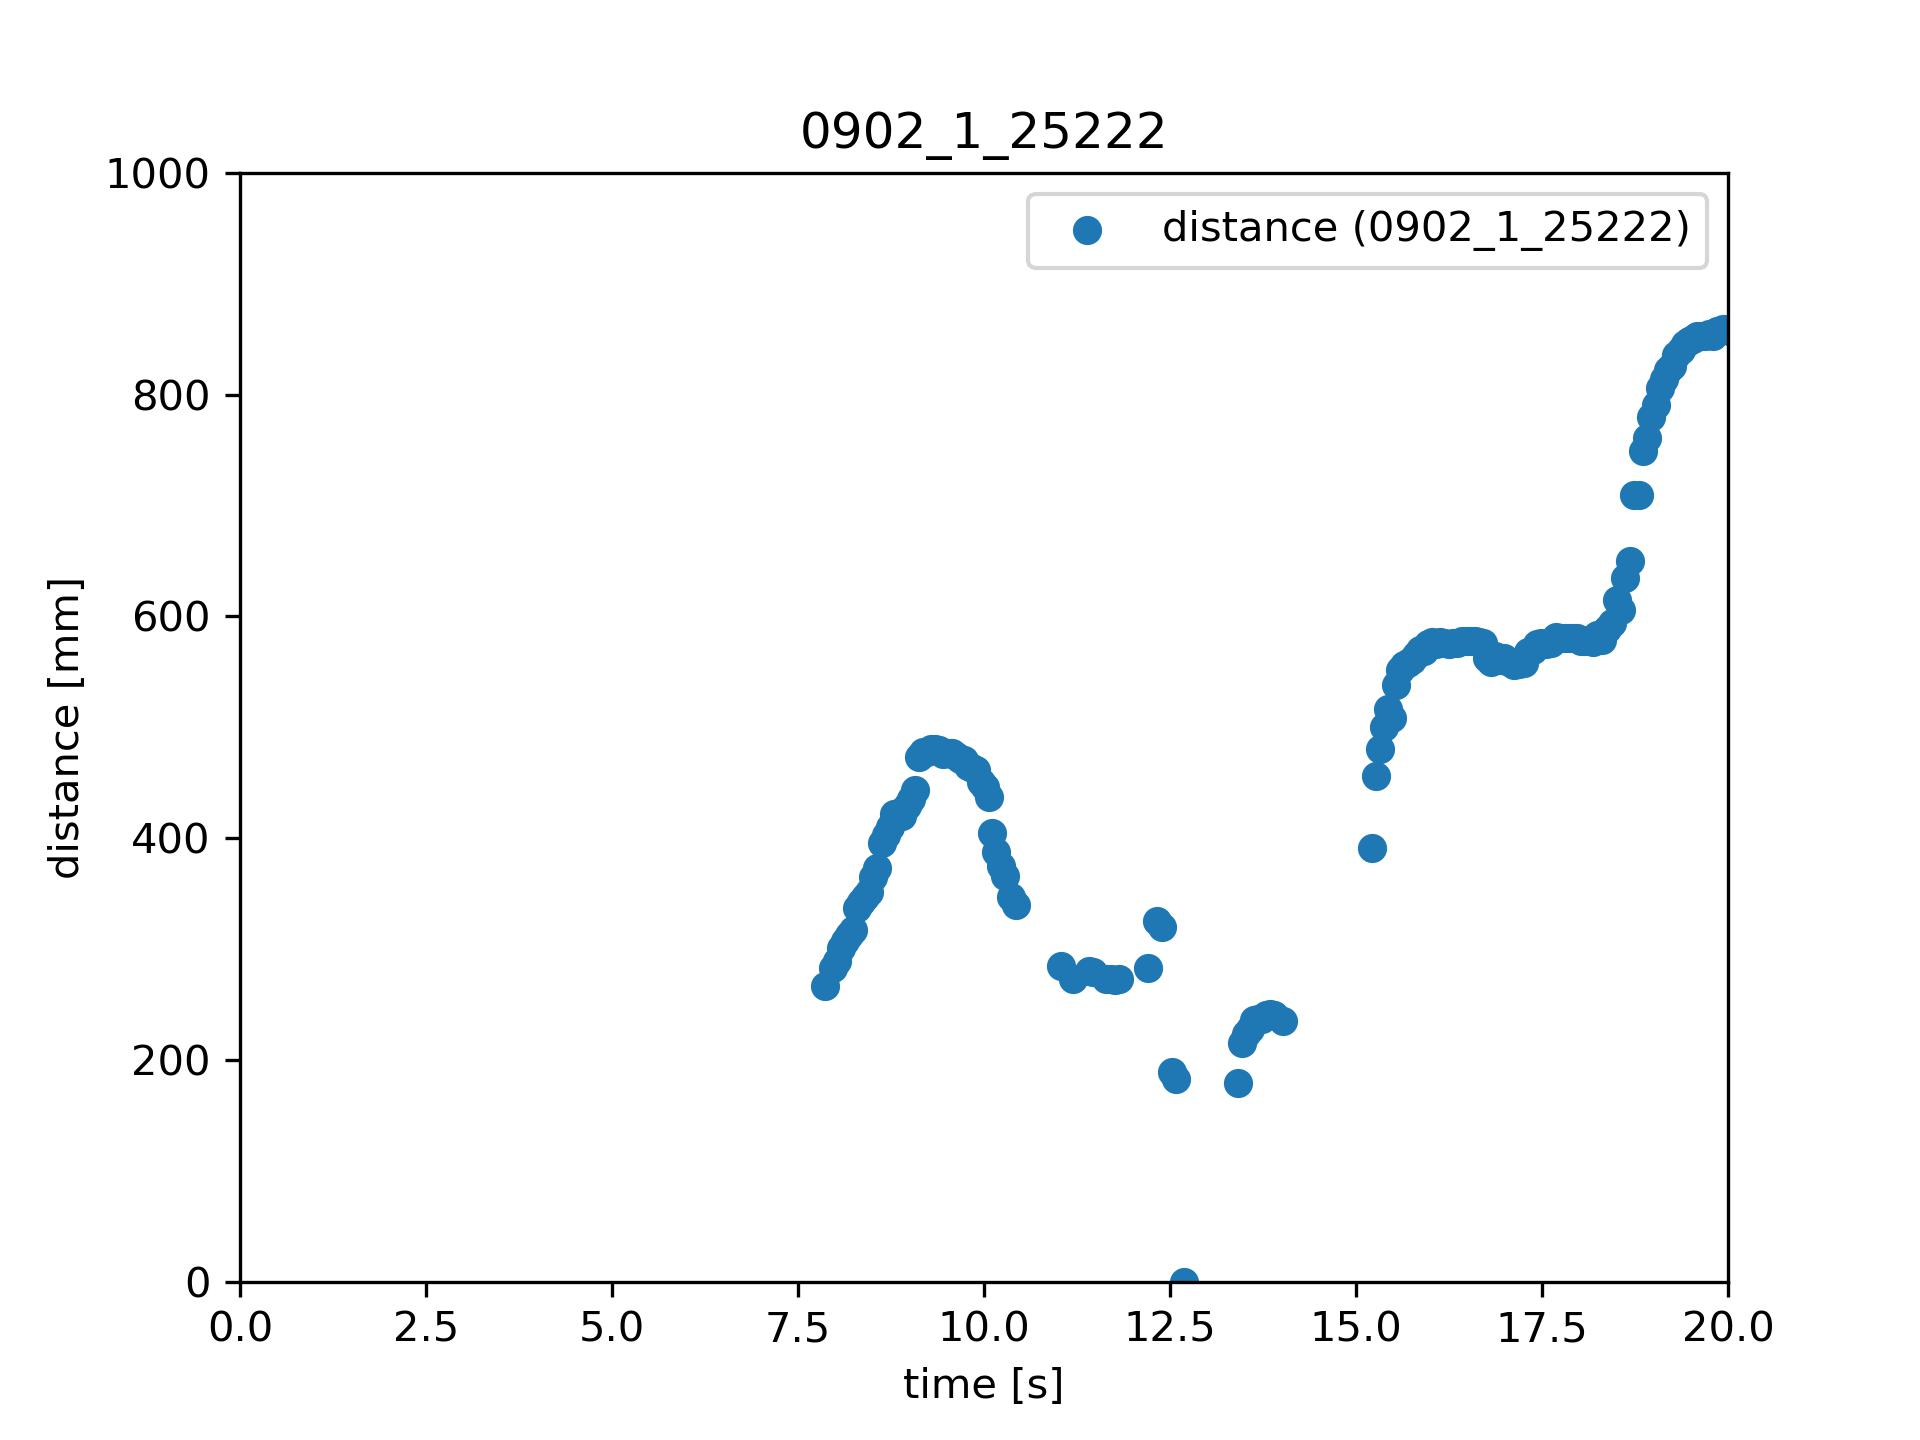
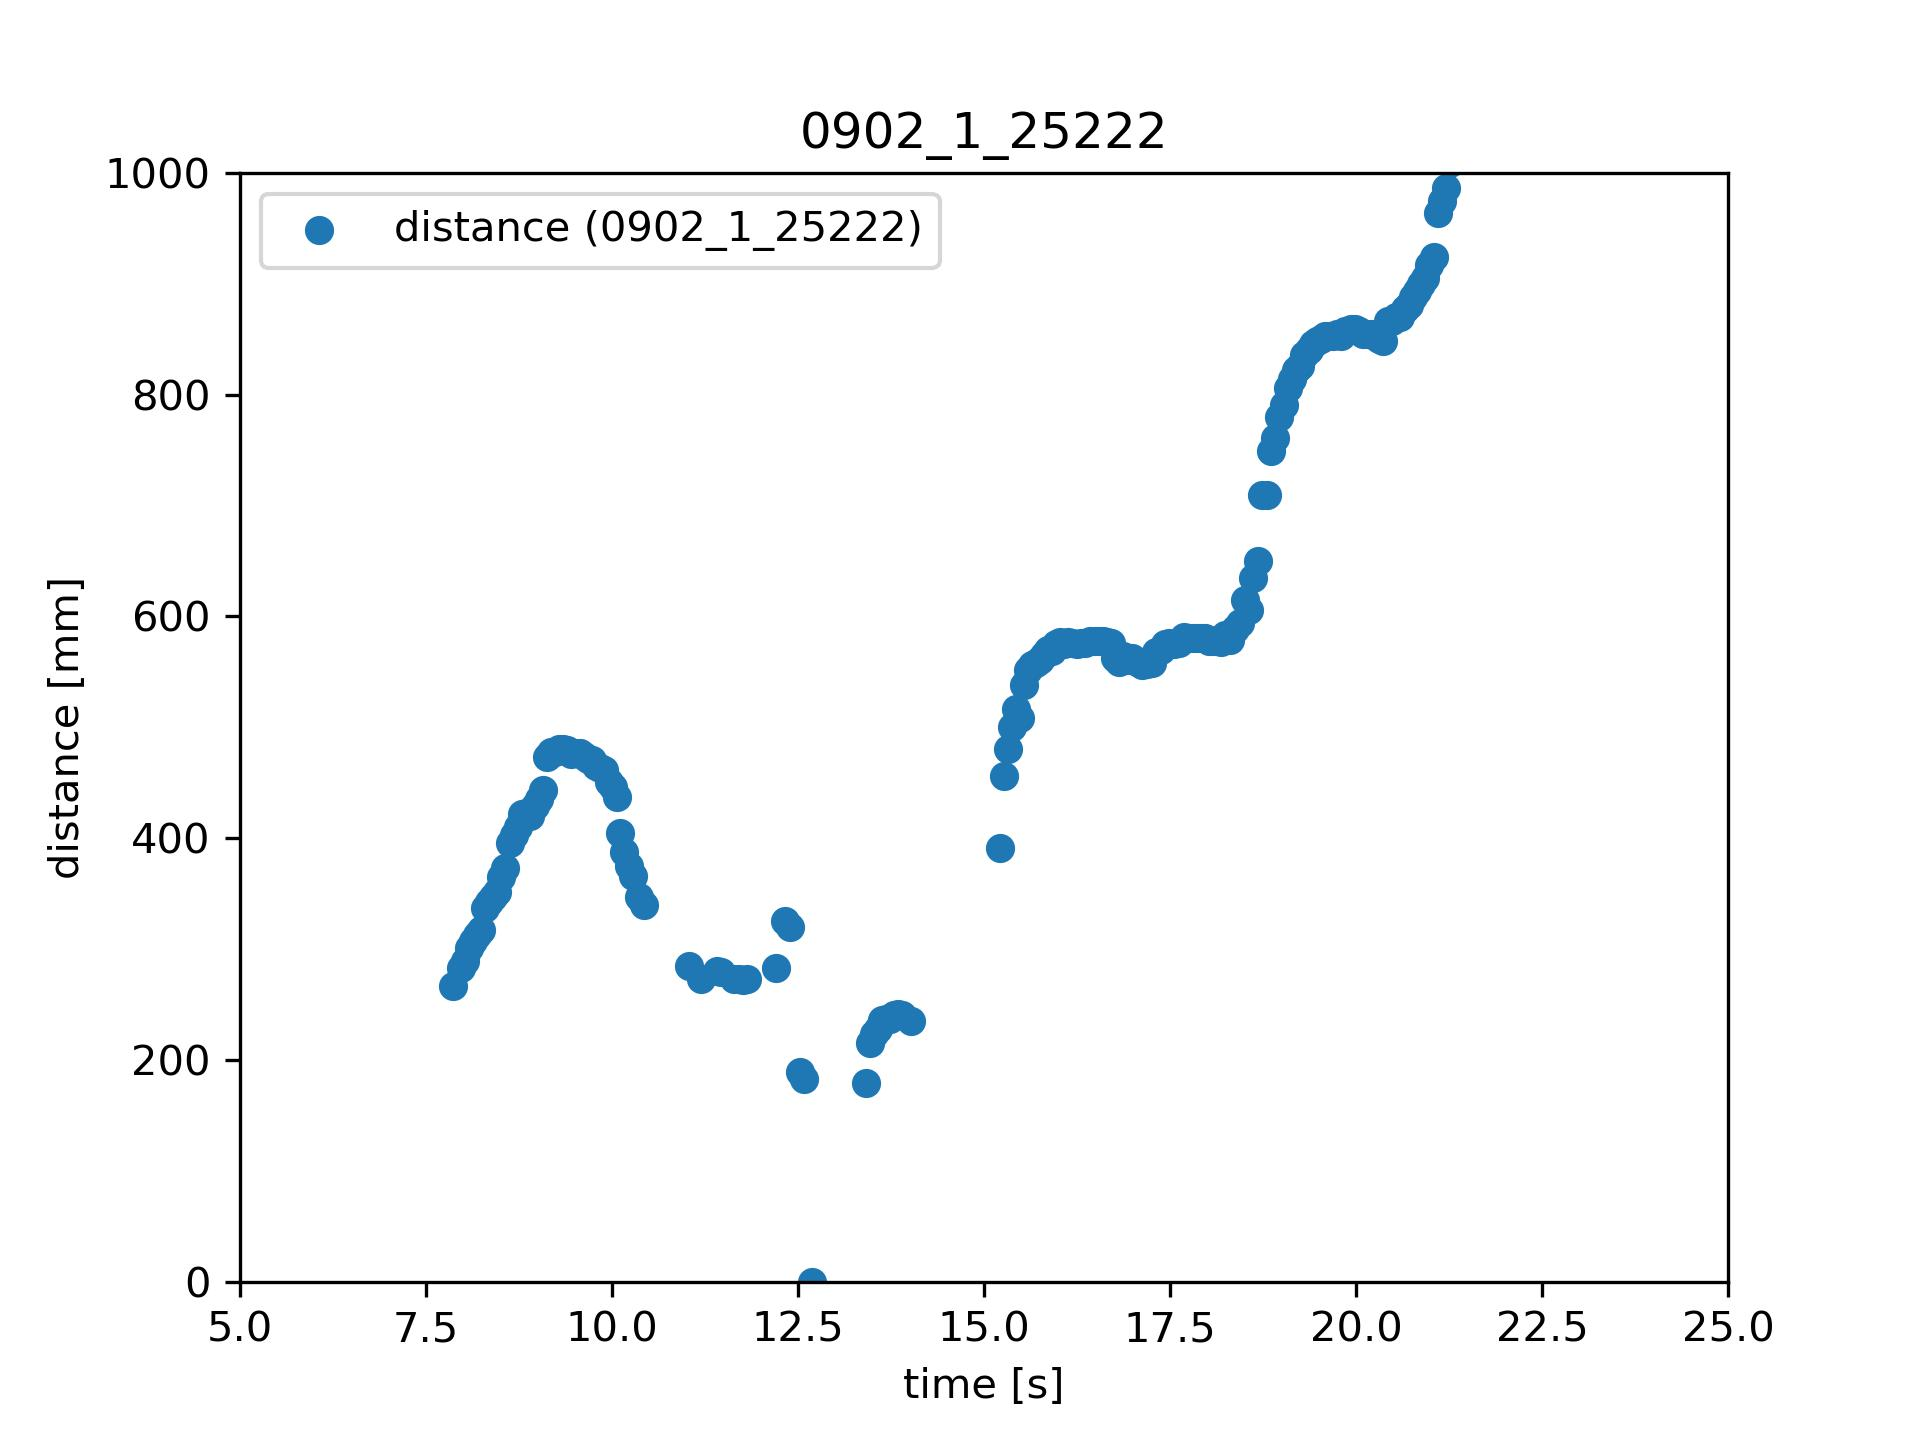
ADD: new graph for rinko

diff --git a/object_detector/scripts/analyzer/0906_4_closeup_plot.py b/object_detector/scripts/analyzer/0906_4_closeup_plot.py
@@ -26,7 +26,7 @@ plt.legend()
 plt.xlabel("time [s]")
 plt.ylabel("distance [mm]")
 
-plt.xlim((0,20))
+plt.xlim((5,25))
 plt.ylim((0,1000))
 
 # plt.show()
